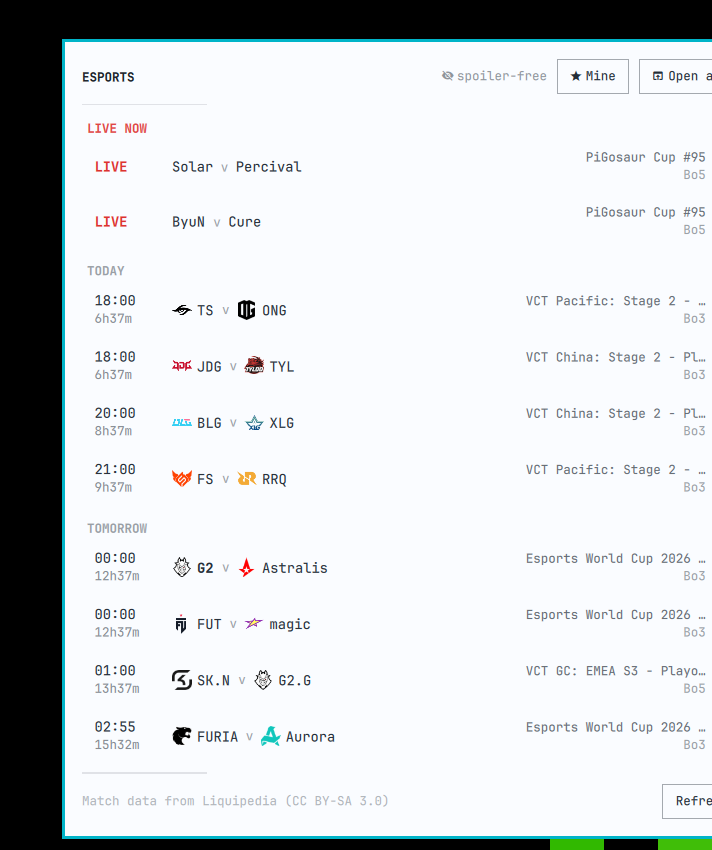
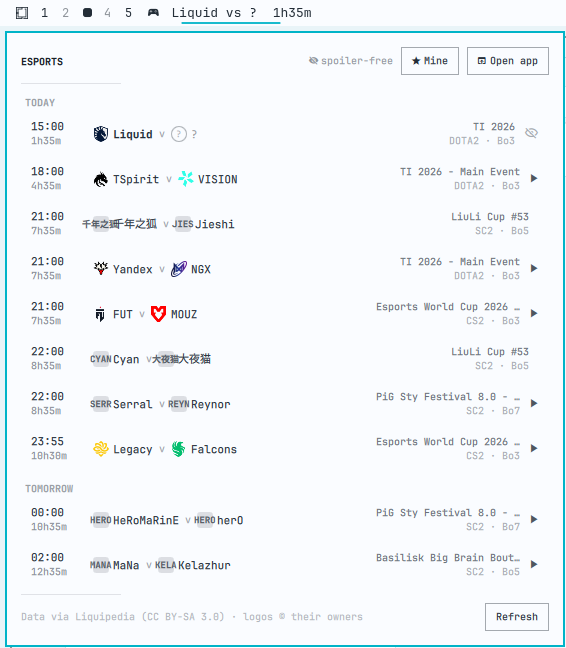
Prepare the bar plugin for the Omarchy catalog
The catalog clones a repo and only reads manifest.json at the root, so
the widget ships as its own public repo. Capture a tight crop of the
bar panel rather than the app, keep install.sh from replacing a git
checkout, and point public URLs at matt-shearing/omarchy-esports.

Changed region(s): [[0.0, 0.0, 1.0, 1.0], [0.7208, 0.2469, 0.7809, 0.2778]]

diff --git a/internal/youtube/youtube.go b/internal/youtube/youtube.go
@@ -113,7 +113,7 @@ func (c *Client) Videos(ctx context.Context, channelID string) ([]Video, error) 
 	if err != nil {
 		return nil, err
 	}
-	req.Header.Set("User-Agent", "omarchy-esports (+https://github.com/contra/omarchy-esports)")
+	req.Header.Set("User-Agent", "omarchy-esports (+https://github.com/matt-shearing/omarchy-esports)")
 	resp, err := c.http.Do(req)
 	if err != nil {
 		return nil, err

diff --git a/docs/plugin-README.md b/docs/plugin-README.md
@@ -1,81 +1,77 @@
-# Esports — spoiler-free match schedule for the Omarchy bar
+# Esports
 
-A bar widget showing the next match for the teams you follow, with a dropdown
-listing what is live, what is coming, and what you still have to watch — and a
-spoiler blackout that is enforced by the daemon rather than by the UI.
+![Esports panel on the Omarchy bar](preview.png)
 
-![Esports widget](preview.png)
+A spoiler-free match schedule on the Omarchy bar. The next match for a team
+you follow sits on the chip with a countdown; click it for what is live, what
+is coming, and what you still have to watch.
 
 - **Next match on the bar** with a live countdown.
-- **Click a match** for an inline detail panel: full team names, kickoff, format,
-  stream links, VOD, and links to the relevant Liquipedia pages.
-- **Spoiler-free by construction.** Finished matches show the fixture and
-  nothing else until you reveal them. The score is not merely hidden — it is
-  absent from the file this widget reads.
-- **Catch-up masking.** If you are behind on a team's matches, their later
-  fixtures have the *opponent* withheld too, because knowing who they play next
-  tells you they won.
-- **Filter to your teams** with the ★ Mine toggle in the panel header.
-- Covers **Dota 2**, **Counter-Strike** and **StarCraft II** out of the box,
-  with 19 games verified and one command away.
+- **Click a match** for streams, the VOD, and Liquipedia pages.
+- **Spoiler-free by construction.** A result you have not revealed is absent
+  from the file this widget reads, not merely undrawn.
+- **Catch-up masking.** If you are behind on a team, later opponents are
+  withheld too — knowing who they play next tells you they won.
+- **★ Mine** filters the list to your teams.
+- **Dota 2**, **Counter-Strike** and **StarCraft II** out of the box; 37 games
+  verified and one toggle away.
+
+This plugin is the front end. It never talks to the network. The
+`omarchy-esports` daemon fetches, redacts, and notifies.
 
 ## Requires the daemon
 
-This plugin is the front end. It reads a state file and never touches the
-network. The `omarchy-esports` daemon does the fetching, the spoiler redaction
-and the notifications, and you need it for the widget to show anything:
+Until the daemon is running the widget shows a panel that names the repo.
 
-```bash
-git clone https://github.com/matt-shearing/omarchy-esports
+```sh
+git clone https://github.com/matt-shearing/omarchy-esports.git
 cd omarchy-esports && ./install.sh
 ```
 
-That also installs the companion app and a systemd user service. Until the
-daemon is running the widget shows a panel telling you so.
+That builds the daemon (Go is required), the companion app, and a user-session
+service. If this plugin is already a git checkout, `install.sh` leaves it
+alone. No sudo or pkexec is required.
 
 ## Install
 
-```bash
-omarchy plugin add https://github.com/matt-shearing/omarchy-esports-plugin --enable
+```sh
+omarchy plugin add https://github.com/matt-shearing/omarchy-esports-plugin.git --enable
 ```
+
+That clones the plugin and can place the widget on the left side of the bar.
 
 Or by hand:
 
-```bash
-git clone https://github.com/matt-shearing/omarchy-esports-plugin \
+```sh
+git clone https://github.com/matt-shearing/omarchy-esports-plugin.git \
   ~/.config/omarchy/plugins/contra.esports
 omarchy-shell shell rescanPlugins
 omarchy plugin enable contra.esports --section left
 ```
 
+Nothing in `~/.config` is rewritten except the bar layout entry Omarchy adds
+when you enable the plugin.
+
 ## Remove
 
-```bash
-omarchy plugin disable contra.esports
+```sh
 omarchy plugin remove contra.esports
 ```
 
-Or by hand:
+That leaves the daemon and its state. To uninstall those too, see
+[omarchy-esports](https://github.com/matt-shearing/omarchy-esports).
 
-```bash
-omarchy plugin disable contra.esports
-rm -r ~/.config/omarchy/plugins/contra.esports
-omarchy restart shell
-```
+## Requirements
 
-Removing the plugin leaves the daemon and its state alone. To remove those too:
-
-```bash
-systemctl --user disable --now omarchy-esports
-rm -r ~/.local/state/omarchy-esports ~/.config/omarchy-esports
-rm ~/.local/bin/omarchy-esports ~/.local/bin/omarchy-esports-app
-```
+- Omarchy Quattro with third-party shell plugins
+- The `omarchy-esports` daemon from the companion repo above
+- `go` to build the daemon
 
 ## Settings
 
 Widget options live on the bar entry in `~/.config/omarchy/shell.json`:
 
-```bash
+```sh
 omarchy bar set contra.esports showLabel false   # icon only
 omarchy bar set contra.esports maxRows 14        # rows in the dropdown
 omarchy bar set contra.esports showFinished false
@@ -94,6 +90,17 @@ instantiated once per monitor and an IPC target reaches only one of them, so an
 IPC binding opens the panel on the wrong screen. `shell toggle` routes through
 the bar, which picks the focused one.
 
+## Development
+
+```sh
+omarchy plugin validate .
+```
+
+Edits under `~/.config/omarchy/plugins/contra.esports/` reload in the running
+shell. Force a rescan with `omarchy-shell shell rescanPlugins` if a change does
+not appear.
+
 ## Licence
 
-MIT. Match data from [Liquipedia](https://liquipedia.net), CC BY-SA 3.0.
+MIT. Match data from [Liquipedia](https://liquipedia.net), CC BY-SA 3.0. See
+[LICENSE](LICENSE).

diff --git a/docs/SUBMISSION.md b/docs/SUBMISSION.md
@@ -5,21 +5,11 @@ submitted — two decisions are yours first.
 
 ## Decide first
 
-**1. The plugin id.** Currently `contra.esports`. Ids are permanent and
-globally unique across the whole catalog, and retired ids cannot be reused, so
-this is worth settling before submitting rather than after.
-
-| | `contra.esports` | `io.github.matt-shearing.esports` |
-|---|---|---|
-| Matches your other local plugins | yes | no |
-| Collision risk in a global namespace | higher | effectively nil |
-| Marketplace convention | tolerated | recommended |
-
-To change it, edit `id` in `plugin/contra.esports/manifest.json`, rename the
-directory, and re-run `./package-plugin.sh`.
+**1. The plugin id.** Settled: `contra.esports`. That matches `contra.keep-on`
+and `contra.layouts`, already on the catalog. Ids are permanent.
 
 **2. The contact address.** `contactEmail` in the config is sent to Liquipedia
-in the User-Agent on every request. See `TODO.md`.
+in the User-Agent on every request. See `TODO.md`. Not in the plugin repo.
 
 ## Publish the plugin repo
 
@@ -38,7 +28,7 @@ gh repo create omarchy-esports-plugin --public --source=. --push
 Then verify it installs the way a user would:
 
 ```bash
-omarchy plugin add https://github.com/matt-shearing/omarchy-esports-plugin --enable
+omarchy plugin add https://github.com/matt-shearing/omarchy-esports-plugin.git --enable
 ```
 
 ## Submit to the community catalog
@@ -88,6 +78,8 @@ Their scanner flags these. None are present, but worth knowing before editing:
 - no PID files in shared `/tmp`
 
 The packaged plugin is QML and a JSON manifest only — no scripts at all.
+Daemon uninstall lives in the companion repo README, not here, so the listing
+does not mention `systemctl`.
 
 ## After approval
 

diff --git a/docs/PUBLISHING.md b/docs/PUBLISHING.md
@@ -75,23 +75,10 @@ Option 1 is the default assumption of everything below.
 - [ ] No `curl | sh`, no unpinned remote code execution, no `NOPASSWD` sudoers
       rules, no PID files in shared `/tmp` — these trip the security scanner
 
-## The plugin id decision
+## The plugin id
 
-Currently `contra.esports`, which matches the other plugins on this machine
-(`contra.gpu`, `contra.media`) and passes the official validator, whose only
-real rules are `^[A-Za-z0-9][A-Za-z0-9._-]*$` and no `omarchy.` prefix.
-
-The marketplace *recommends* a namespaced form like
-`io.github.matt-shearing.esports`. Since ids are permanent, the trade-off is
-worth settling before submission:
-
-| | `contra.esports` | `io.github.matt-shearing.esports` |
-|---|---|---|
-| Matches local plugins | yes | no |
-| Collision risk in a global namespace | higher | effectively nil |
-| Marketplace convention | tolerated | recommended |
-
-Changing it later means a new listing, not a rename.
+`contra.esports`, matching `contra.keep-on` and `contra.layouts`. Ids are
+permanent; changing it later means a new listing, not a rename.
 
 ## Submission
 

diff --git a/README.md b/README.md
@@ -43,7 +43,29 @@ omarchy-esports status
 `install.sh` builds the binary into `~/.local/bin`, installs the bar plugin,
 enables a systemd user service for the daemon, and adds the widget to your bar.
 Use `DEV_LINK=1 ./install.sh` to symlink the plugin from a working copy instead
-of copying it.
+of copying it. If the plugin is already a git checkout from
+`omarchy plugin add`, the installer leaves that checkout alone.
+
+The bar widget is also a standalone repo so the catalog's
+`omarchy plugin add` works (it only reads `manifest.json` at the repository
+root):
+
+```bash
+omarchy plugin add https://github.com/matt-shearing/omarchy-esports-plugin.git --enable
+```
+
+You still need this repo — the daemon — for the widget to show anything.
+
+### Uninstall
+
+```bash
+omarchy plugin remove contra.esports
+systemctl --user disable --now omarchy-esports
+rm -r ~/.local/state/omarchy-esports ~/.config/omarchy-esports
+rm ~/.local/bin/omarchy-esports ~/.local/bin/omarchy-esports-app
+rm -r ~/.local/share/omarchy-esports
+rm ~/.local/share/applications/omarchy-esports.desktop
+```
 
 ### Keybindings
 

diff --git a/TODO.md b/TODO.md
@@ -28,18 +28,9 @@ this file and in `docs/`.
 
 ## Publish to the plugin catalog
 
-Everything is prepared and nothing is submitted. `docs/SUBMISSION.md` has the
-exact commands, the field values, and the five form confirmations mapped to
-where each is already satisfied. Two decisions gate it: the plugin id (below)
-and the contact address (above).
-
-## Decide the published plugin id
-
-The plugin ships as `contra.esports`, matching your other local plugins. The
-community marketplace recommends a namespaced id such as
-`io.github.matt-shearing.esports`, and **plugin ids are permanent and globally
-unique once listed** — they cannot be reused after retirement. Worth settling
-before submitting, not after. See `docs/PUBLISHING.md`.
+Id settled as `contra.esports` (same namespace as Keep On and Persistent
+Layouts). Remaining work is the packaged repo, the public daemon repo, and the
+marketplace issue — see `docs/SUBMISSION.md`.
 
 ## Resolved
 
